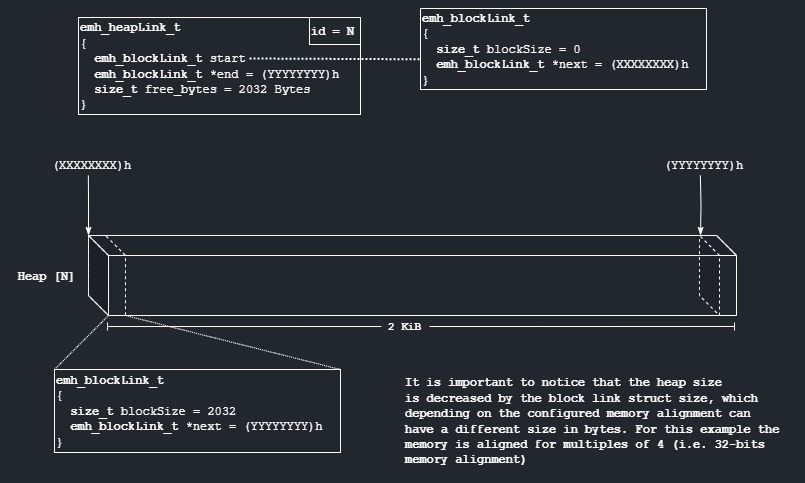
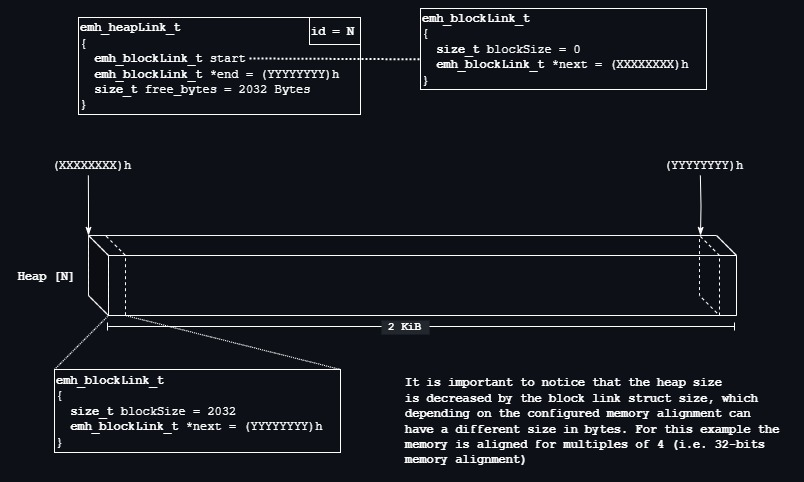
Update on README.md

diff --git a/README.md b/README.md
@@ -19,12 +19,12 @@ Before memory blocks can be allocated, the heap region must be specified and the
 At first, our memory region is considered empty, i.e no allocated blocks whatsoever. Therefore the heap starts with a single **free** memory block pointed by **\*next** in the **start** block link struct, present in the heap link data structure. When `emh_malloc` is called, the allocation size and heap ID number must be passed as arguments. During the allocation process, `emh_malloc` performs memory alignment procedures on the requested allocation size and then traverse the entire free block list to find a block in the specified heap that will fit the requested size. If successful, the list of free blocks is updated and a pointer to the allocated block is returned, otherwise a `NULL` pointer is returned. Everytime `emh_malloc` successfully allocates a block, the respective block is unlinked from the **free** block list. Observe the illustrations below.
 
 <figure>
-  <img align="center" height="320" width="923" src="https://github.com/Antonio-Bassi/emh_malloc/blob/main/mkdown_pics/emh_malloc_step1.jpg">
+  <img align="center" height="482" width="804" src="https://github.com/Antonio-Bassi/emh_malloc/blob/main/mkdown_pics/emh_malloc_step1.jpg">
   <figcaption>Figure 2 - Initial state of a 2 KiB (2048 bytes) heap memory region.</figcaption>
 </figure>
 
 <figure>
-  <img align="center" height="320" width="923" src="https://github.com/Antonio-Bassi/emh_malloc/blob/main/mkdown_pics/emh_malloc_step2.jpg">
+  <img align="center" height="482" width="804" src="https://github.com/Antonio-Bassi/emh_malloc/blob/main/mkdown_pics/emh_malloc_step2.jpg">
   <figcaption>Figure 3 - Heap state after a memory allocation procedure.</figcaption>
 </figure>
 
